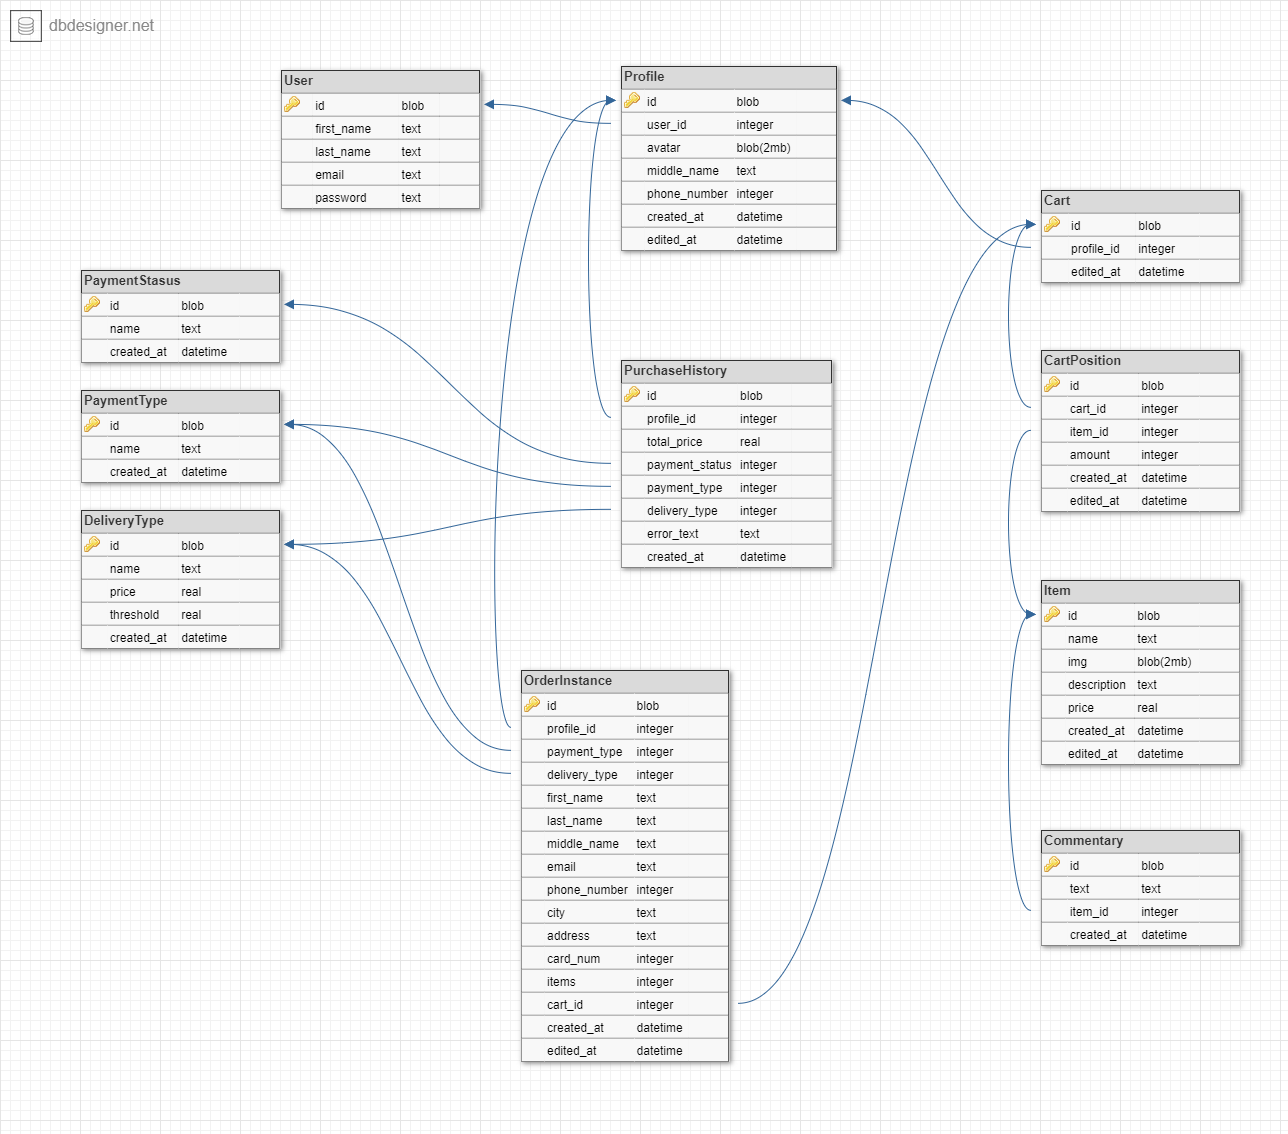
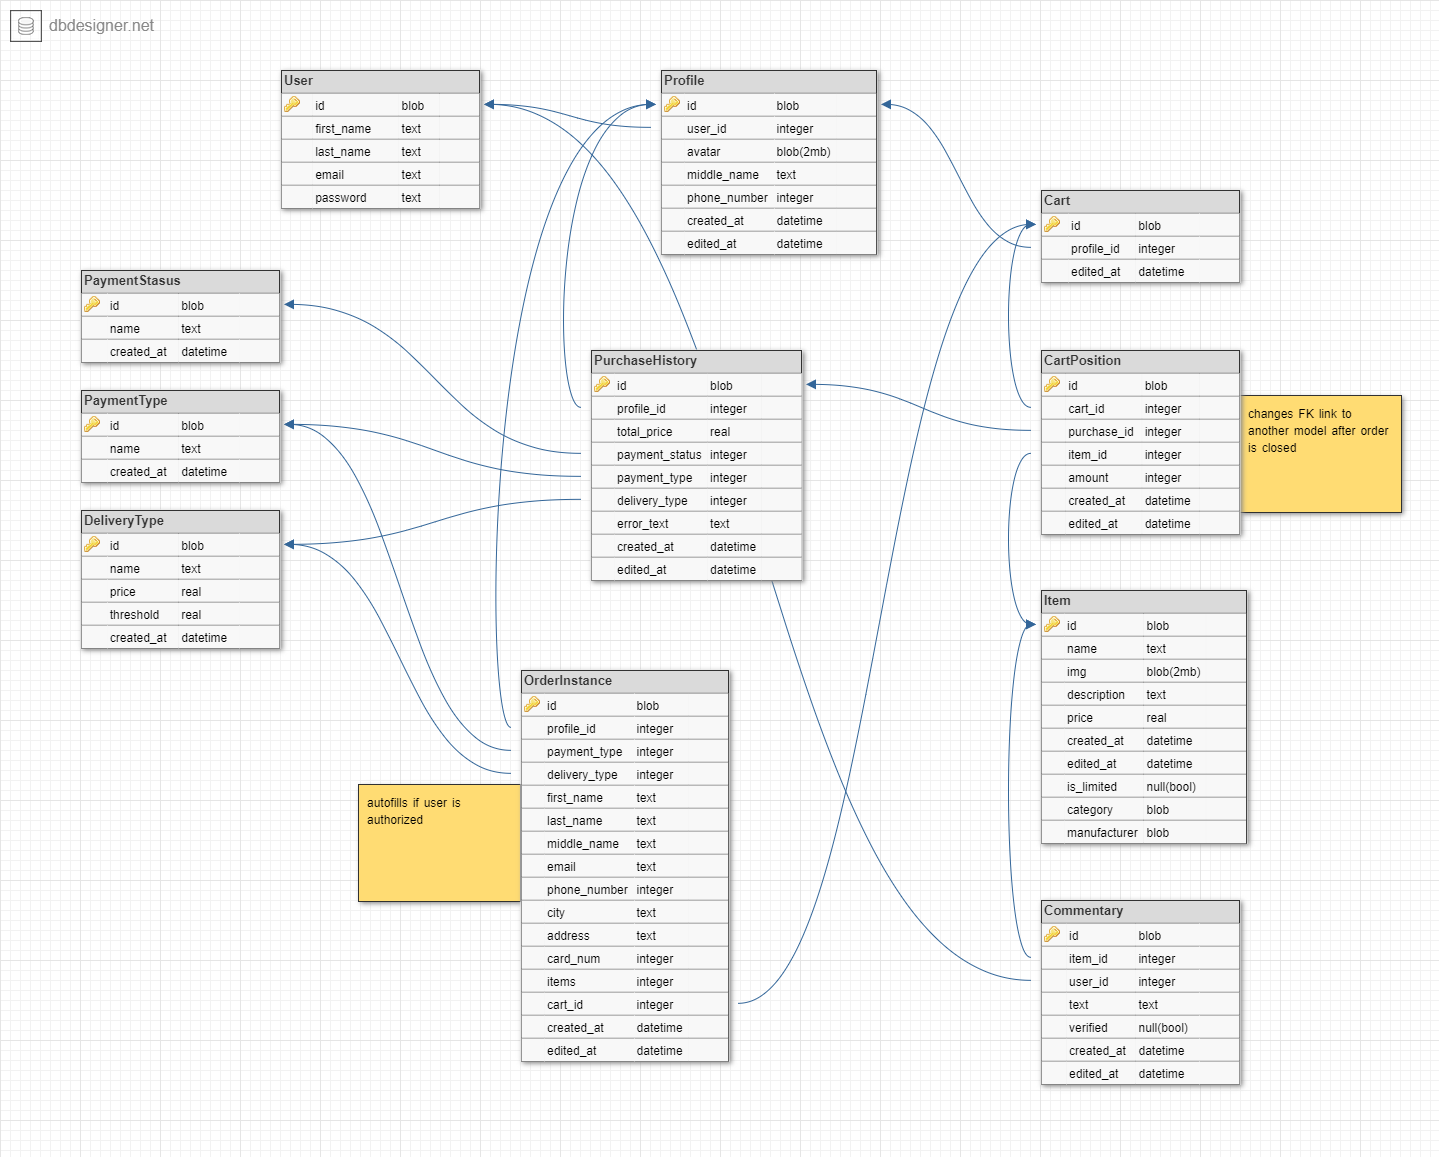
README.md: DB structure updates

diff --git a/README.md b/README.md
@@ -15,8 +15,11 @@ Models implemented:
 - PaymentStatus
 - PaymentType
 - DeliveryType
+- Category
+- Manufacturer
 
 ![db template image](docs/db_template.png)
+![db template image 2](docs/db_template_2.png)
 
 ### Paths structure
 | **Section** | **Page**          | **Description**                                                    | **HTTP-method** | **URL**                   | **Commentary**                                   |
